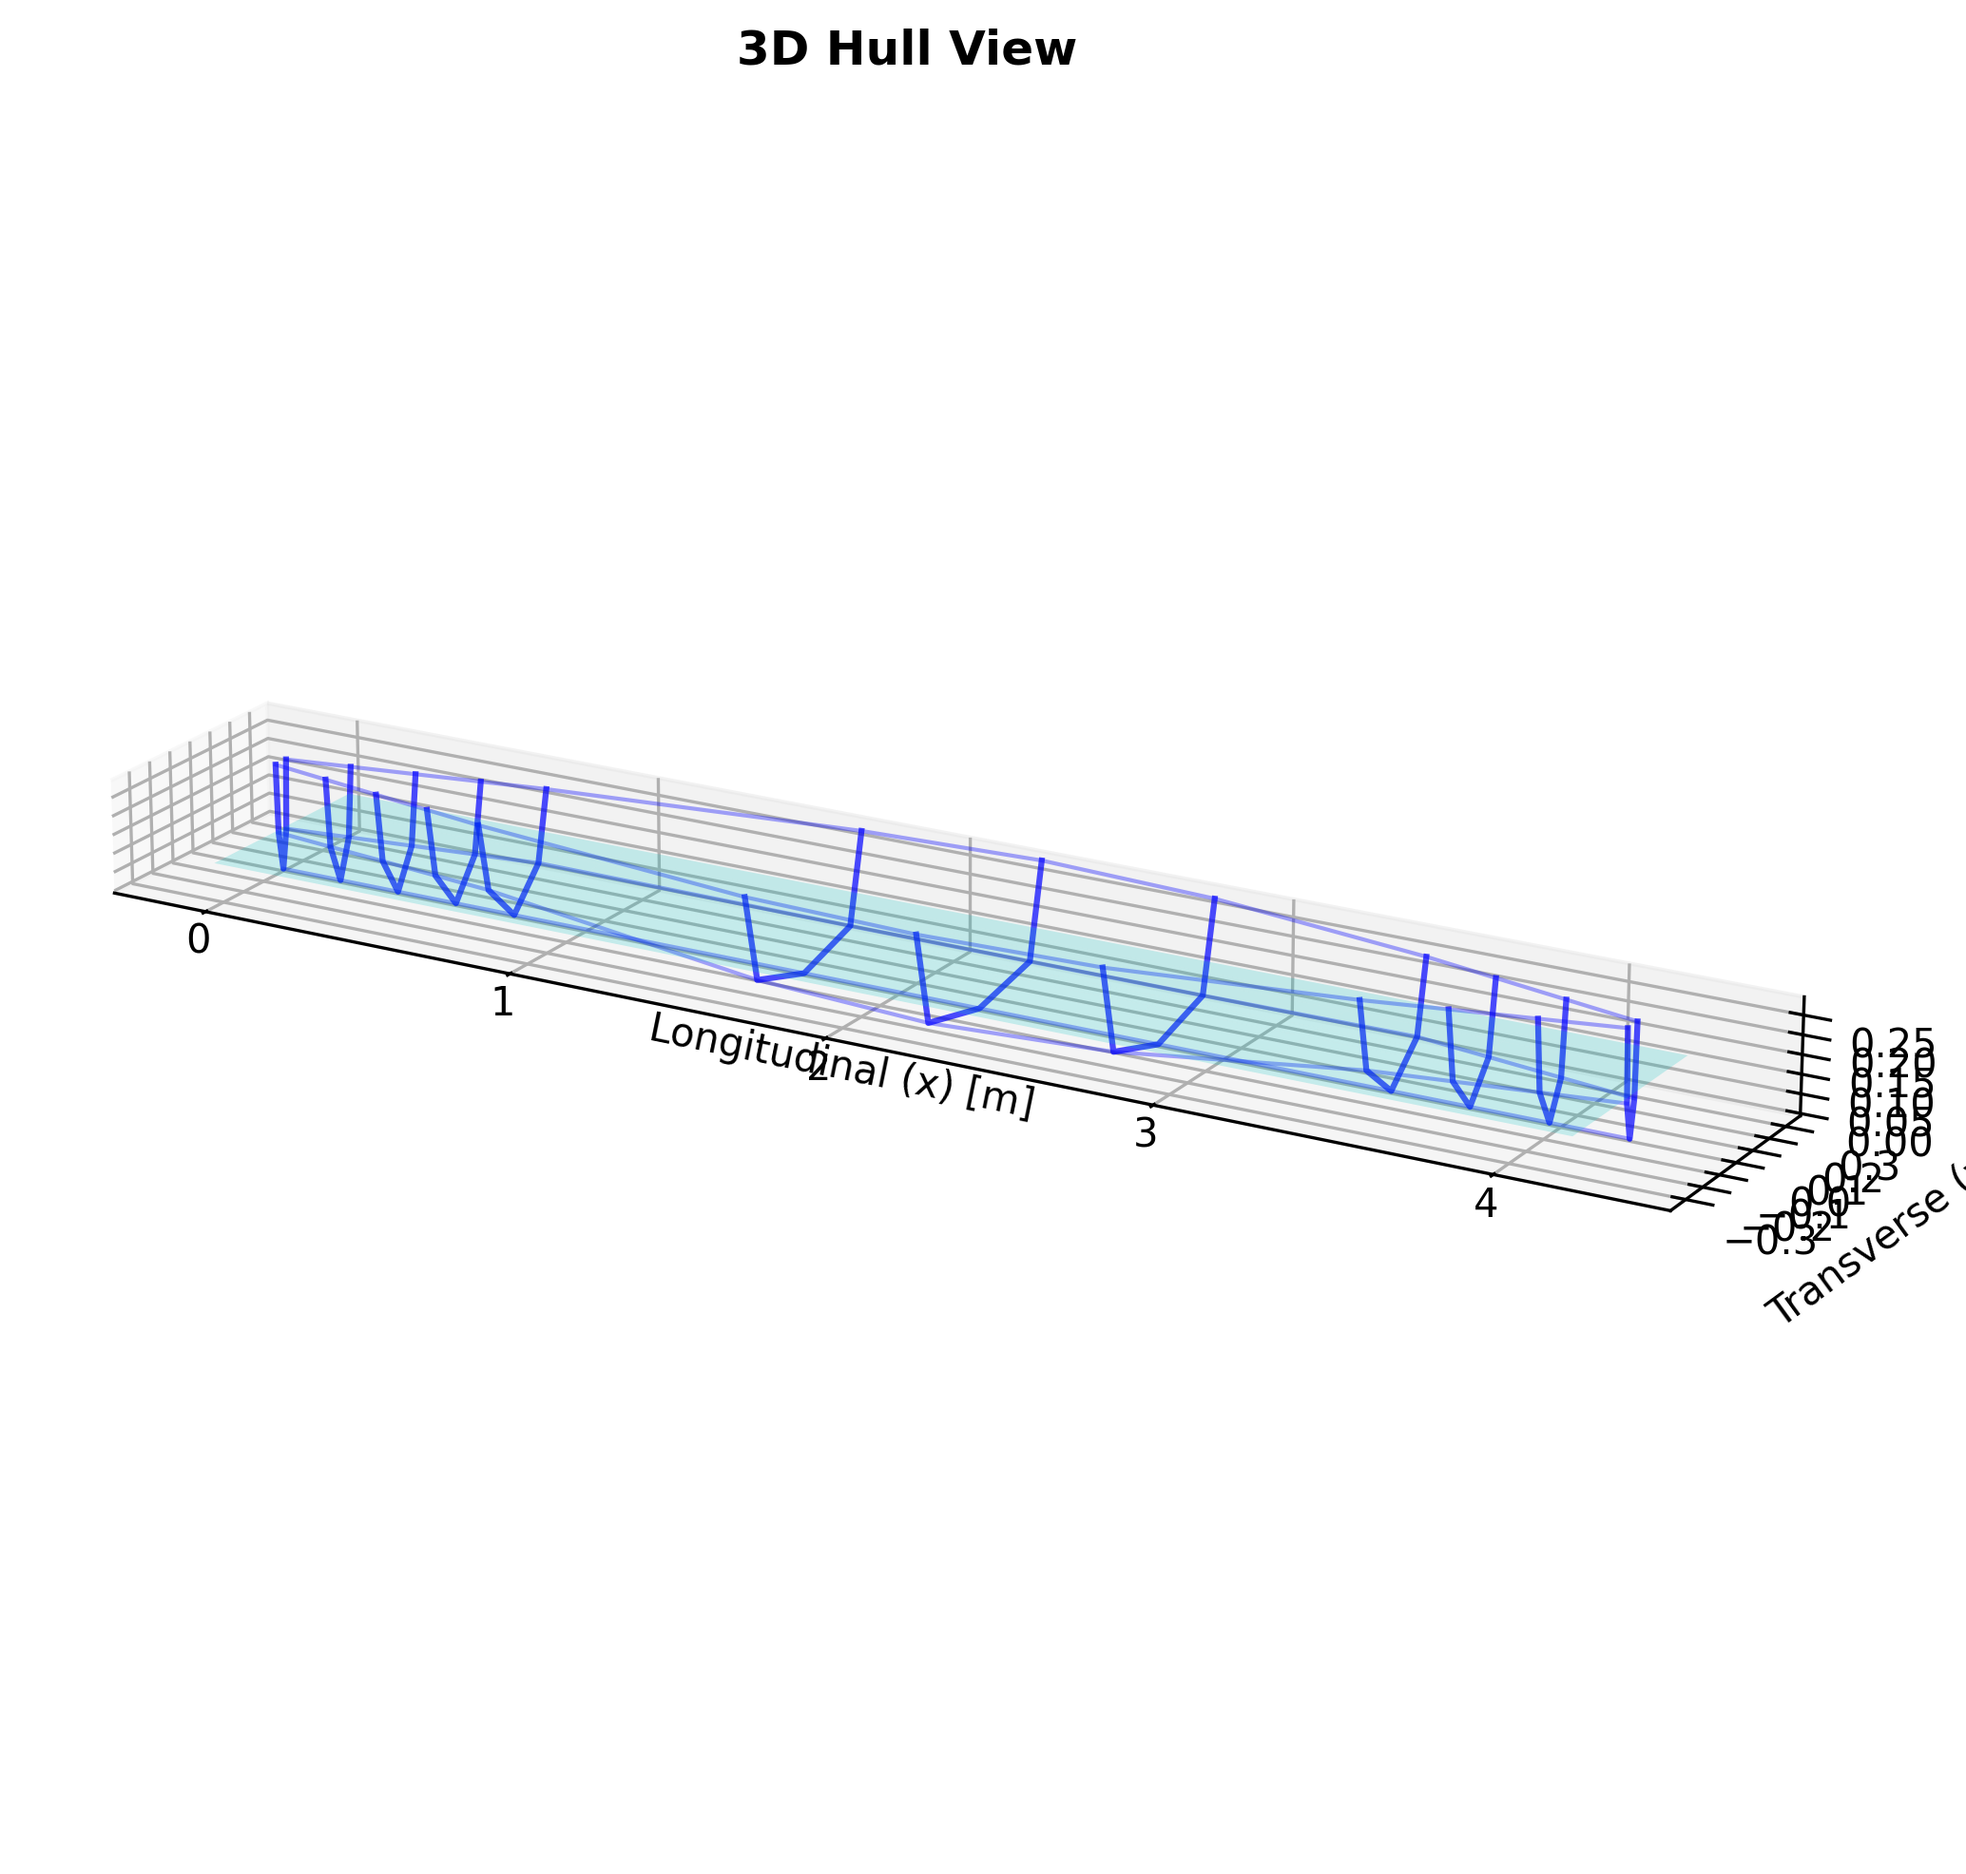
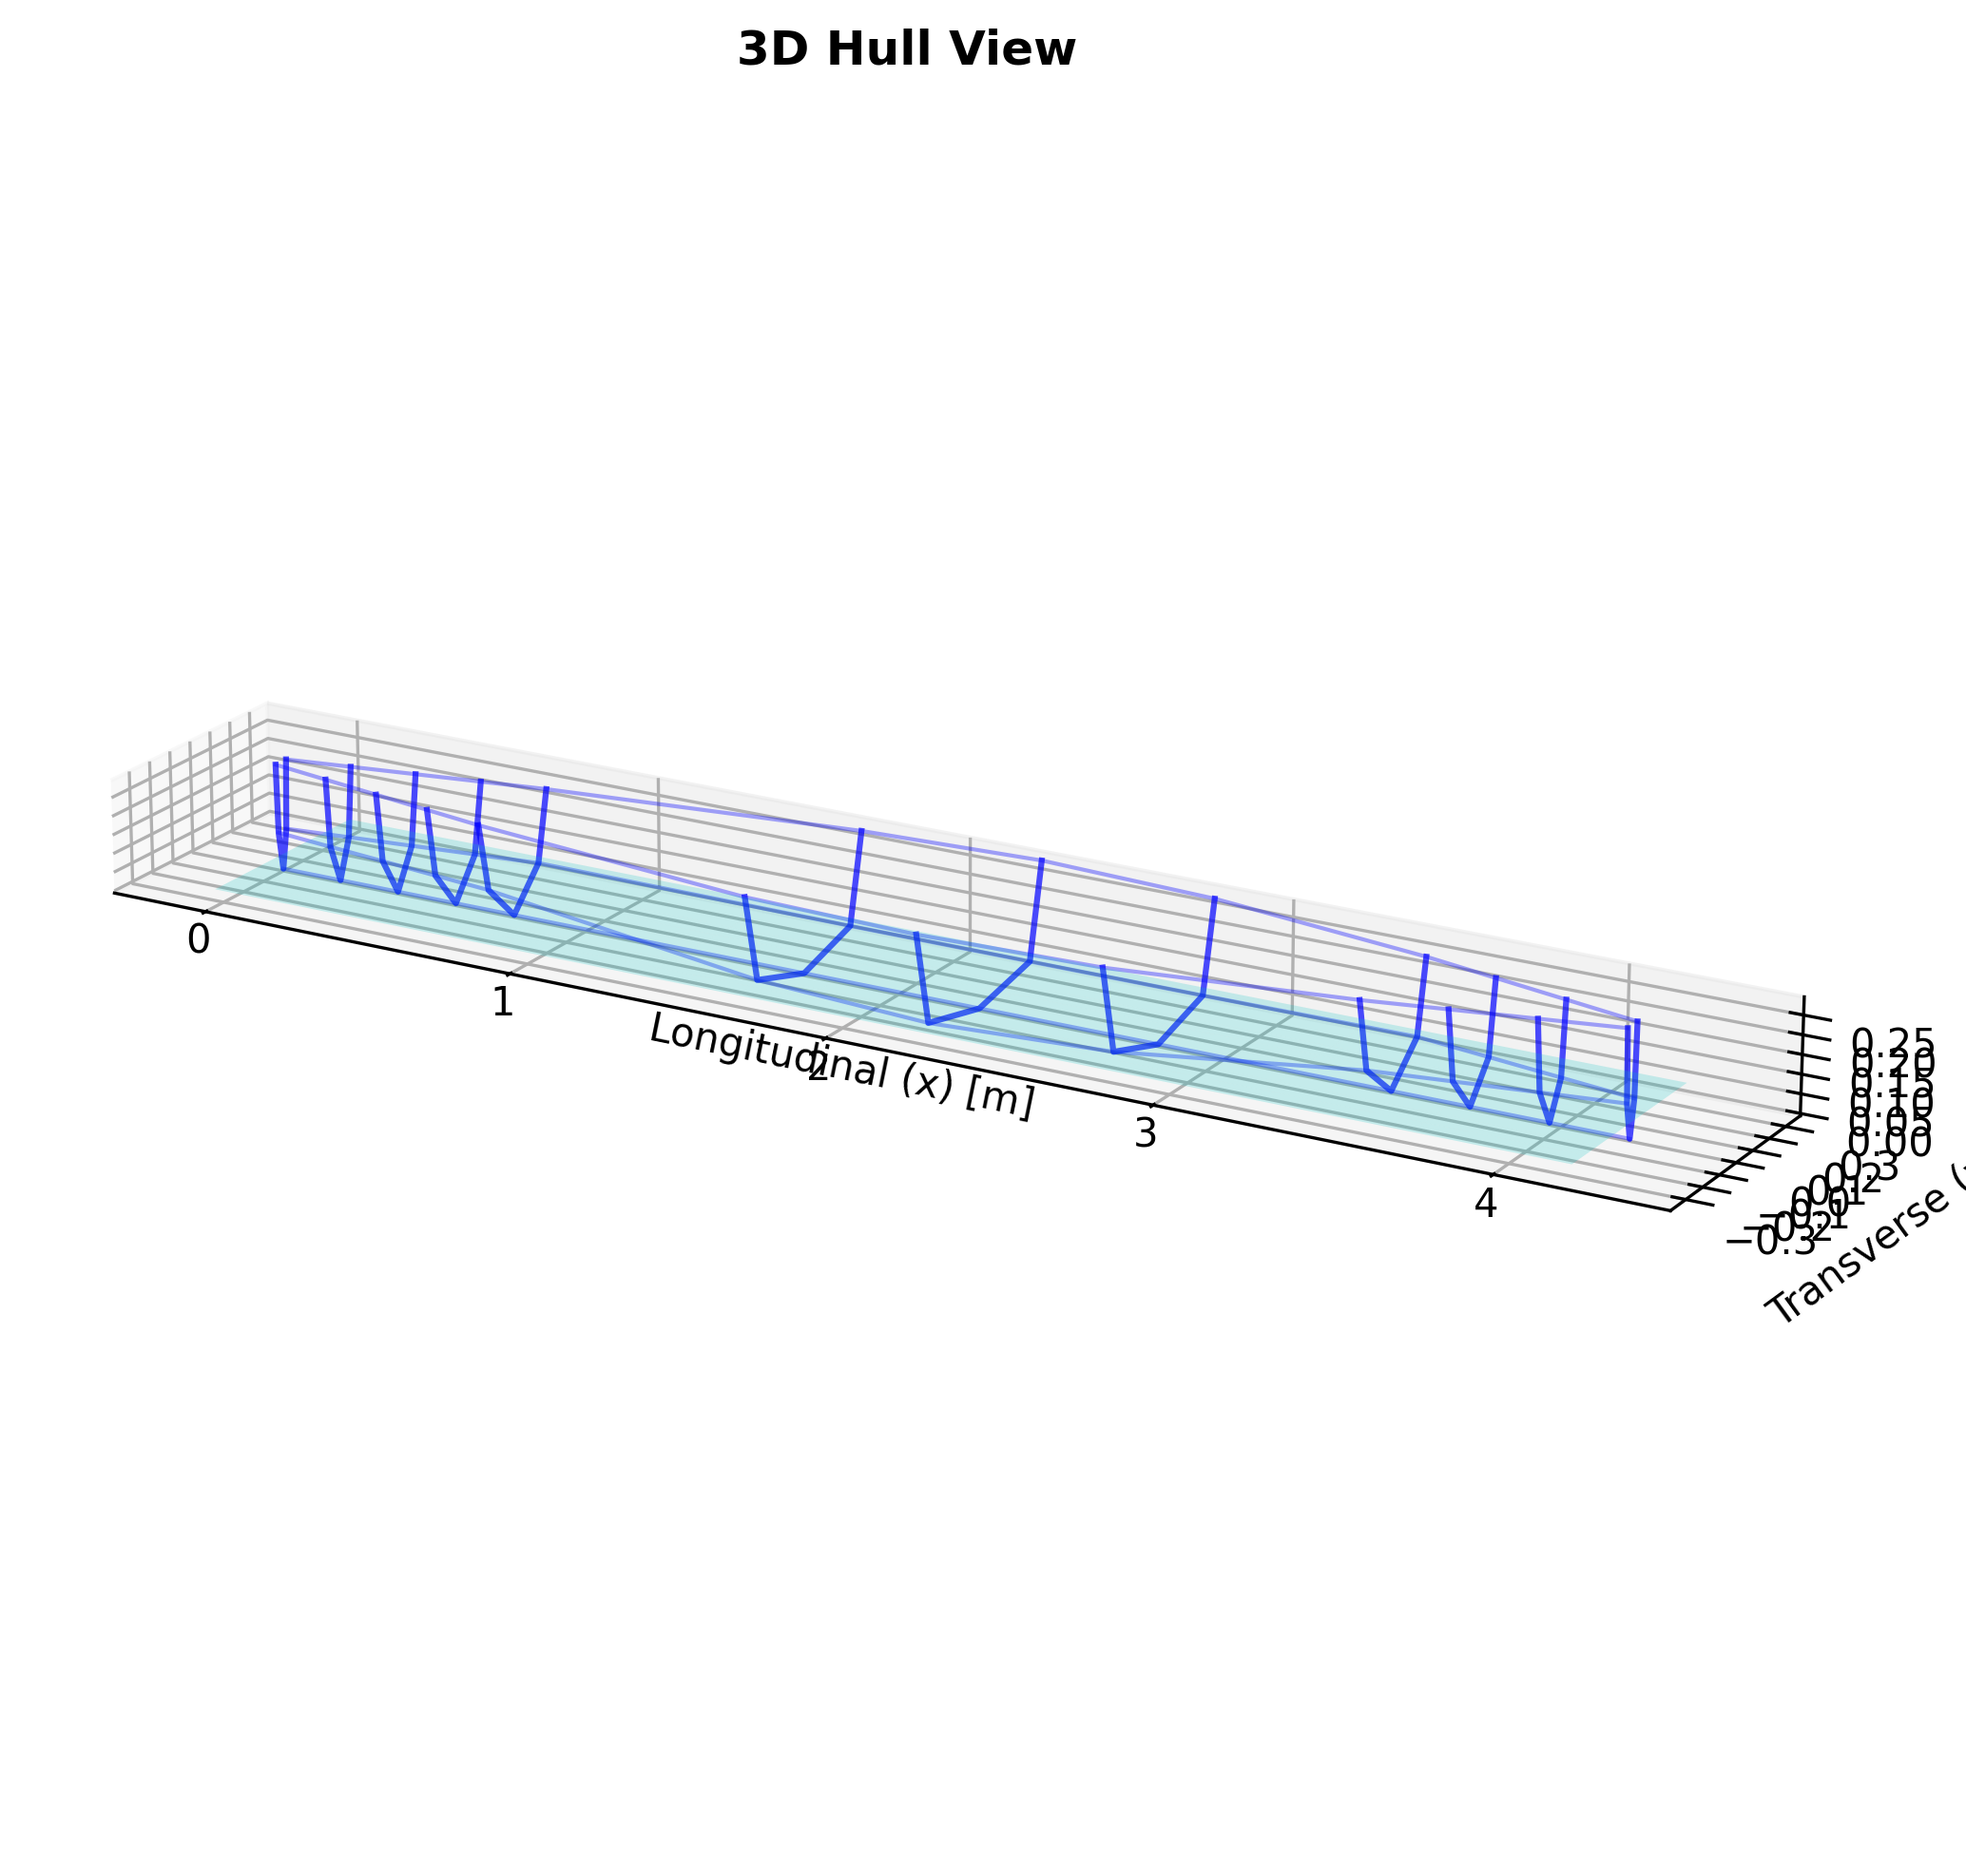
Modify My kayak to check without load

Changed region(s): [[0.1238, 0.4023, 0.8665, 0.619]]

diff --git a/my_kayaks/kyk-01/kyk-01_analysis.py b/my_kayaks/kyk-01/kyk-01_analysis.py
@@ -10,7 +10,7 @@ import os
 # This suggests the hull data may be for a scale model or measurements need verification
 # Using appropriate masses for this hull capacity
 
-waterline_z = 0.110 
+waterline_z = 0.040 
 script_dir = os.path.dirname(os.path.abspath(__file__))
 
 # Load your hull data
@@ -45,7 +45,7 @@ plt.show()
 # Option A: Scaled masses matching hull capacity (CURRENT APPROACH)
 components = [
     calculate_hull_cg_mass_component(hull, hull_mass=12.0),
-    MassComponent(name="payload", mass=100.0, x=2.6, y=0.0, z=0.30, description="Payload/paddler"),
+    # MassComponent(name="payload", mass=100.0, x=2.6, y=0.0, z=0.30, description="Payload/paddler"),
 ]
 
 # Calculate CG automatically

diff --git a/TASKS.md b/TASKS.md
@@ -493,6 +493,17 @@
   - Benefits of profile-only approach (no explicit bow/stern)
 - **Build Status:** Documentation builds successfully (110 pre-existing warnings)
 
+
+
+### 9.7 Add mor point to bow and stern
+Current definition of bow and stern fall short to define a good shape of the hull with more control about the rocker and the depth on diferent points. 
+ - [ ] Make bow and stern definitions an array of points an then interpolate the points on extreme stations with the corresponding points on the bow and stern (point count must match the the point count on the stations). One possible solution to the interpolation issues can be: points on the bow and stern be duplicated to both sides of the bow/stern half real size (for example 2 centimeter wood, aluminium or plastic piece can be a real bow or stern size, and points are placed 1 centimeter from the center line). The point in the center line should be the point where the rocker of the bow/stern start rising.
+ 
+### 9.8 Review tests and docs ✅
+After adding bow and stern to the design we need to check all tests again
+- [ ] Check all test and fix the possible issues
+- [ ] Systematically solve all mypy issues
+- [ ] Check all documents, and verify that all of them are up to date.
 ---
 
 ## Phase 10: Optimization and Enhancement
